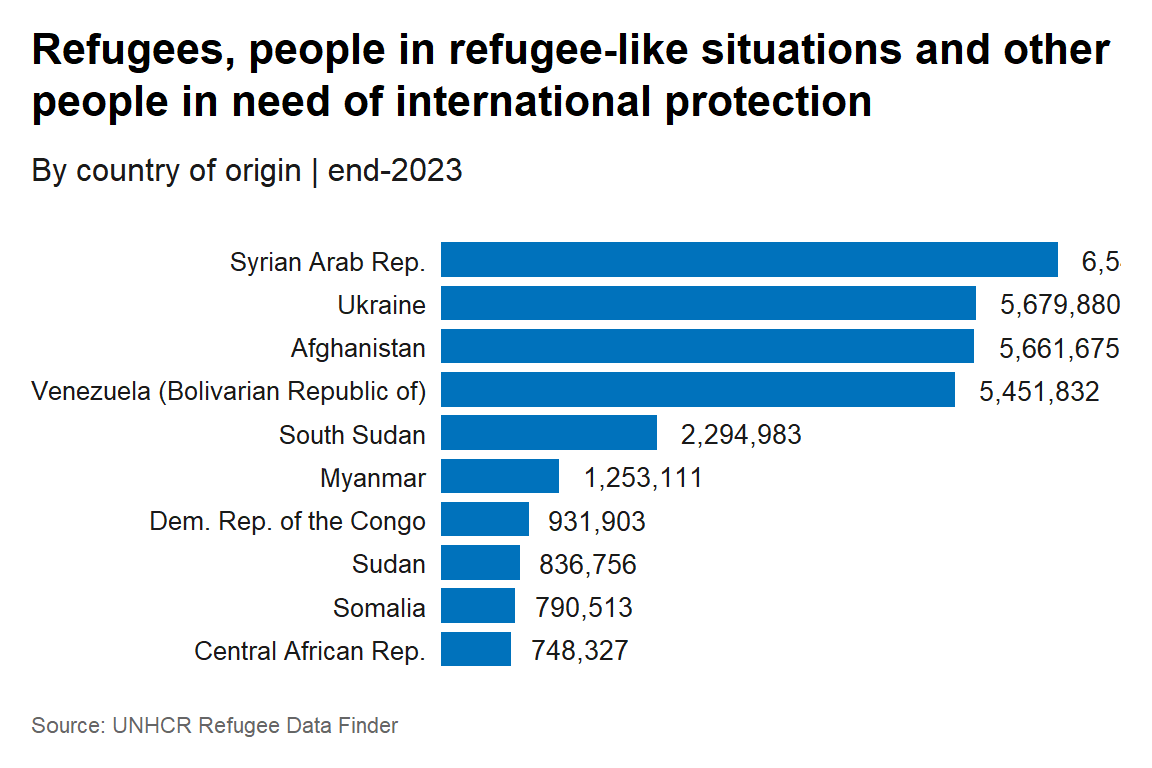
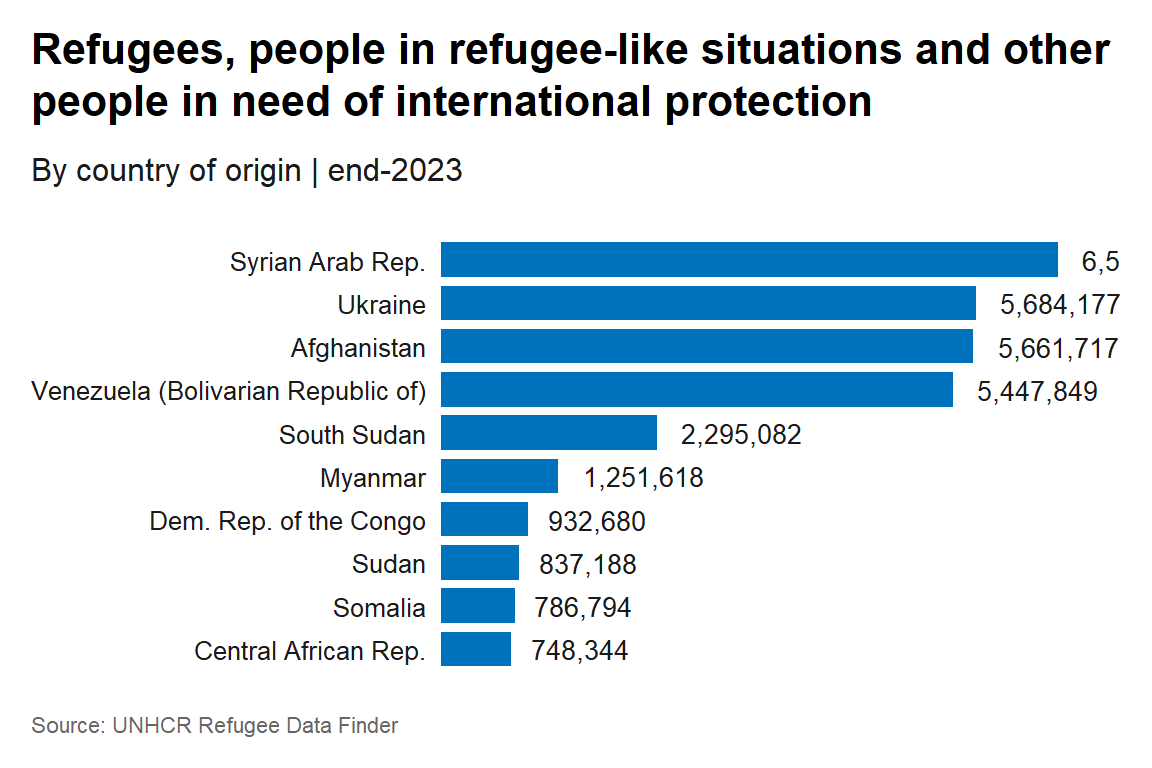
website update...

diff --git a/docs/index.html b/docs/index.html
@@ -107,7 +107,7 @@
 <code class="sourceCode R"><span><span class="kw"><a href="https://rdrr.io/r/base/library.html" class="external-link">library</a></span><span class="op">(</span><span class="va"><a href="https://populationstatistics.github.io/refugees/" class="external-link">refugees</a></span><span class="op">)</span></span>
 <span><span class="kw"><a href="https://rdrr.io/r/base/library.html" class="external-link">library</a></span><span class="op">(</span><span class="va"><a href="https://dplyr.tidyverse.org" class="external-link">dplyr</a></span><span class="op">)</span></span>
 <span><span class="fu"><a href="https://pillar.r-lib.org/reference/glimpse.html" class="external-link">glimpse</a></span><span class="op">(</span><span class="fu">refugees</span><span class="fu">::</span><span class="va"><a href="reference/population.html">population</a></span><span class="op">)</span></span>
-<span><span class="co">#&gt; Rows: 126,262</span></span>
+<span><span class="co">#&gt; Rows: 126,402</span></span>
 <span><span class="co">#&gt; Columns: 16</span></span>
 <span><span class="co">#&gt; $ year              &lt;dbl&gt; 1951, 1951, 1951, 1951, 1951, 1951, 1951, 1951, 1951…</span></span>
 <span><span class="co">#&gt; $ coo_name          &lt;chr&gt; "Unknown", "Unknown", "Unknown", "Unknown", "Unknown…</span></span>
@@ -124,7 +124,7 @@
 <span><span class="co">#&gt; $ stateless         &lt;dbl&gt; 0, 0, 0, 0, 0, 0, 0, 0, 0, 0, 0, 0, 0, 0, 0, 0, 0, 0…</span></span>
 <span><span class="co">#&gt; $ ooc               &lt;dbl&gt; 0, 0, 0, 0, 0, 0, 0, 0, 0, 0, 0, 0, 0, 0, 0, 0, 0, 0…</span></span>
 <span><span class="co">#&gt; $ oip               &lt;dbl&gt; NA, NA, NA, NA, NA, NA, NA, NA, NA, NA, NA, NA, NA, …</span></span>
-<span><span class="co">#&gt; $ hst               &lt;dbl&gt; NA, NA, NA, NA, NA, NA, NA, NA, NA, NA, NA, NA, NA, …</span></span></code></pre></div>
+<span><span class="co">#&gt; $ hst               &lt;dbl&gt; 0, 0, 0, 0, 0, 0, 0, 0, 0, 0, 0, 0, 0, 0, 0, 0, 0, 0…</span></span></code></pre></div>
 <p>The <code>population</code> dataset can be used to get the 10 countries of origin with highest number of refugees, people in refugee-like situations including people in need of international protection in 2022.</p>
 <div class="sourceCode" id="cb4"><pre class="downlit sourceCode r">
 <code class="sourceCode R"><span><span class="va">ref_coo_10</span> <span class="op">&lt;-</span> <span class="fu">refugees</span><span class="fu">::</span><span class="va"><a href="reference/population.html">population</a></span> <span class="op">|&gt;</span></span>
@@ -136,17 +136,17 @@
 <span><span class="co">#&gt; # A tibble: 10 × 2</span></span>
 <span><span class="co">#&gt;    coo_name                           refugees</span></span>
 <span><span class="co">#&gt;    &lt;chr&gt;                                 &lt;dbl&gt;</span></span>
-<span><span class="co">#&gt;  1 Syrian Arab Rep.                    6547818</span></span>
-<span><span class="co">#&gt;  2 Ukraine                             5679880</span></span>
-<span><span class="co">#&gt;  3 Afghanistan                         5661675</span></span>
-<span><span class="co">#&gt;  4 Venezuela (Bolivarian Republic of)  5451832</span></span>
-<span><span class="co">#&gt;  5 South Sudan                         2294983</span></span>
-<span><span class="co">#&gt;  6 Myanmar                             1253111</span></span>
-<span><span class="co">#&gt;  7 Dem. Rep. of the Congo               931903</span></span>
-<span><span class="co">#&gt;  8 Sudan                                836756</span></span>
-<span><span class="co">#&gt;  9 Somalia                              790513</span></span>
-<span><span class="co">#&gt; 10 Central African Rep.                 748327</span></span></code></pre></div>
-<p>We can use <code>ggplot2</code> and the <a href="https://github.com/vidonne/unhcrthemes" class="external-link"><code>unhcrthemes</code></a> to visualize our data following the <a href="https://dataviz.unhcr.org/general_guidance/" class="external-link">UNHCR data visualization guidelines</a>.</p>
+<span><span class="co">#&gt;  1 Syrian Arab Rep.                    6559736</span></span>
+<span><span class="co">#&gt;  2 Ukraine                             5684177</span></span>
+<span><span class="co">#&gt;  3 Afghanistan                         5661717</span></span>
+<span><span class="co">#&gt;  4 Venezuela (Bolivarian Republic of)  5447849</span></span>
+<span><span class="co">#&gt;  5 South Sudan                         2295082</span></span>
+<span><span class="co">#&gt;  6 Myanmar                             1251618</span></span>
+<span><span class="co">#&gt;  7 Dem. Rep. of the Congo               932680</span></span>
+<span><span class="co">#&gt;  8 Sudan                                837188</span></span>
+<span><span class="co">#&gt;  9 Somalia                              786794</span></span>
+<span><span class="co">#&gt; 10 Central African Rep.                 748344</span></span></code></pre></div>
+<p>We can use <code>ggplot2</code> and the <a href="https://github.com/unhcr-dataviz/unhcrthemes" class="external-link"><code>unhcrthemes</code></a> to visualize our data following the <a href="https://dataviz.unhcr.org/general_guidance/" class="external-link">UNHCR data visualization guidelines</a>.</p>
 <div class="sourceCode" id="cb5"><pre class="downlit sourceCode r">
 <code class="sourceCode R"><span><span class="kw"><a href="https://rdrr.io/r/base/library.html" class="external-link">library</a></span><span class="op">(</span><span class="va"><a href="https://ggplot2.tidyverse.org" class="external-link">ggplot2</a></span><span class="op">)</span></span>
 <span><span class="kw"><a href="https://rdrr.io/r/base/library.html" class="external-link">library</a></span><span class="op">(</span><span class="va"><a href="https://github.com/unhcr-dataviz/unhcrthemes" class="external-link">unhcrthemes</a></span><span class="op">)</span></span>

diff --git a/README.md b/README.md
@@ -78,7 +78,7 @@ easily get data on forced displacement or statelessness.
 library(refugees)
 library(dplyr)
 glimpse(refugees::population)
-#> Rows: 126,262
+#> Rows: 126,402
 #> Columns: 16
 #> $ year              <dbl> 1951, 1951, 1951, 1951, 1951, 1951, 1951, 1951, 1951…
 #> $ coo_name          <chr> "Unknown", "Unknown", "Unknown", "Unknown", "Unknown…
@@ -95,7 +95,7 @@ glimpse(refugees::population)
 #> $ stateless         <dbl> 0, 0, 0, 0, 0, 0, 0, 0, 0, 0, 0, 0, 0, 0, 0, 0, 0, 0…
 #> $ ooc               <dbl> 0, 0, 0, 0, 0, 0, 0, 0, 0, 0, 0, 0, 0, 0, 0, 0, 0, 0…
 #> $ oip               <dbl> NA, NA, NA, NA, NA, NA, NA, NA, NA, NA, NA, NA, NA, …
-#> $ hst               <dbl> NA, NA, NA, NA, NA, NA, NA, NA, NA, NA, NA, NA, NA, …
+#> $ hst               <dbl> 0, 0, 0, 0, 0, 0, 0, 0, 0, 0, 0, 0, 0, 0, 0, 0, 0, 0…
 ```
 
 The `population` dataset can be used to get the 10 countries of origin
@@ -112,21 +112,21 @@ ref_coo_10
 #> # A tibble: 10 × 2
 #>    coo_name                           refugees
 #>    <chr>                                 <dbl>
-#>  1 Syrian Arab Rep.                    6547818
-#>  2 Ukraine                             5679880
-#>  3 Afghanistan                         5661675
-#>  4 Venezuela (Bolivarian Republic of)  5451832
-#>  5 South Sudan                         2294983
-#>  6 Myanmar                             1253111
-#>  7 Dem. Rep. of the Congo               931903
-#>  8 Sudan                                836756
-#>  9 Somalia                              790513
-#> 10 Central African Rep.                 748327
+#>  1 Syrian Arab Rep.                    6559736
+#>  2 Ukraine                             5684177
+#>  3 Afghanistan                         5661717
+#>  4 Venezuela (Bolivarian Republic of)  5447849
+#>  5 South Sudan                         2295082
+#>  6 Myanmar                             1251618
+#>  7 Dem. Rep. of the Congo               932680
+#>  8 Sudan                                837188
+#>  9 Somalia                              786794
+#> 10 Central African Rep.                 748344
 ```
 
 We can use `ggplot2` and the
-[`unhcrthemes`](https://github.com/vidonne/unhcrthemes) to visualize our
-data following the [UNHCR data visualization
+[`unhcrthemes`](https://github.com/unhcr-dataviz/unhcrthemes) to
+visualize our data following the [UNHCR data visualization
 guidelines](https://dataviz.unhcr.org/general_guidance/).
 
 ``` r
